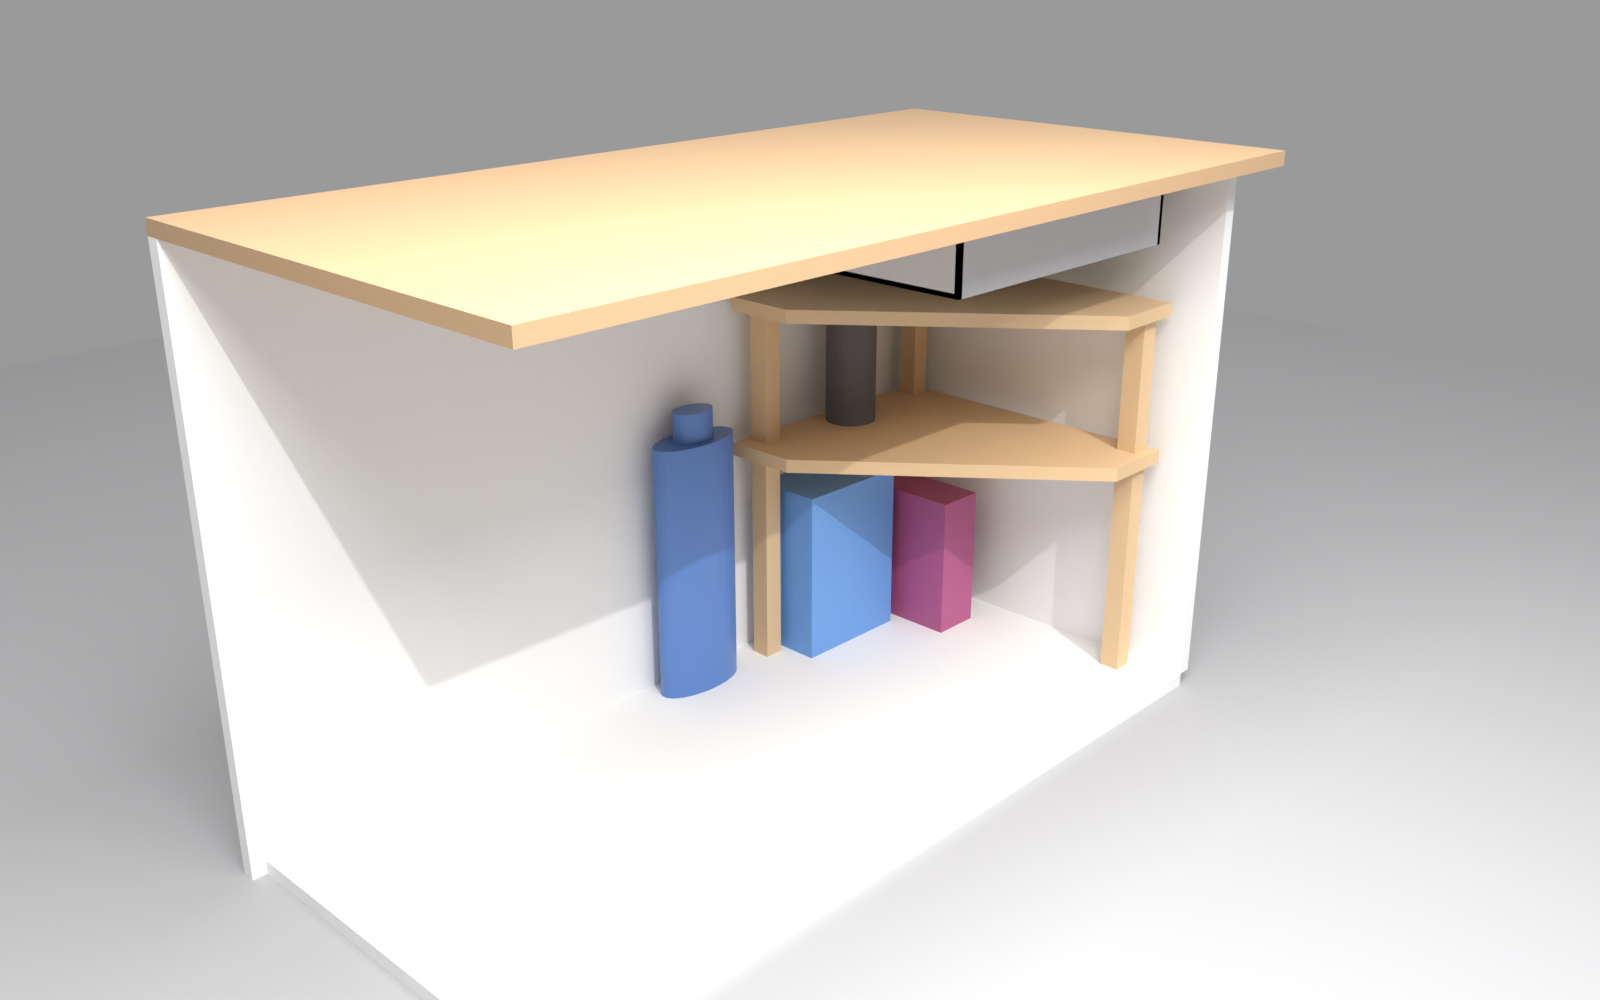
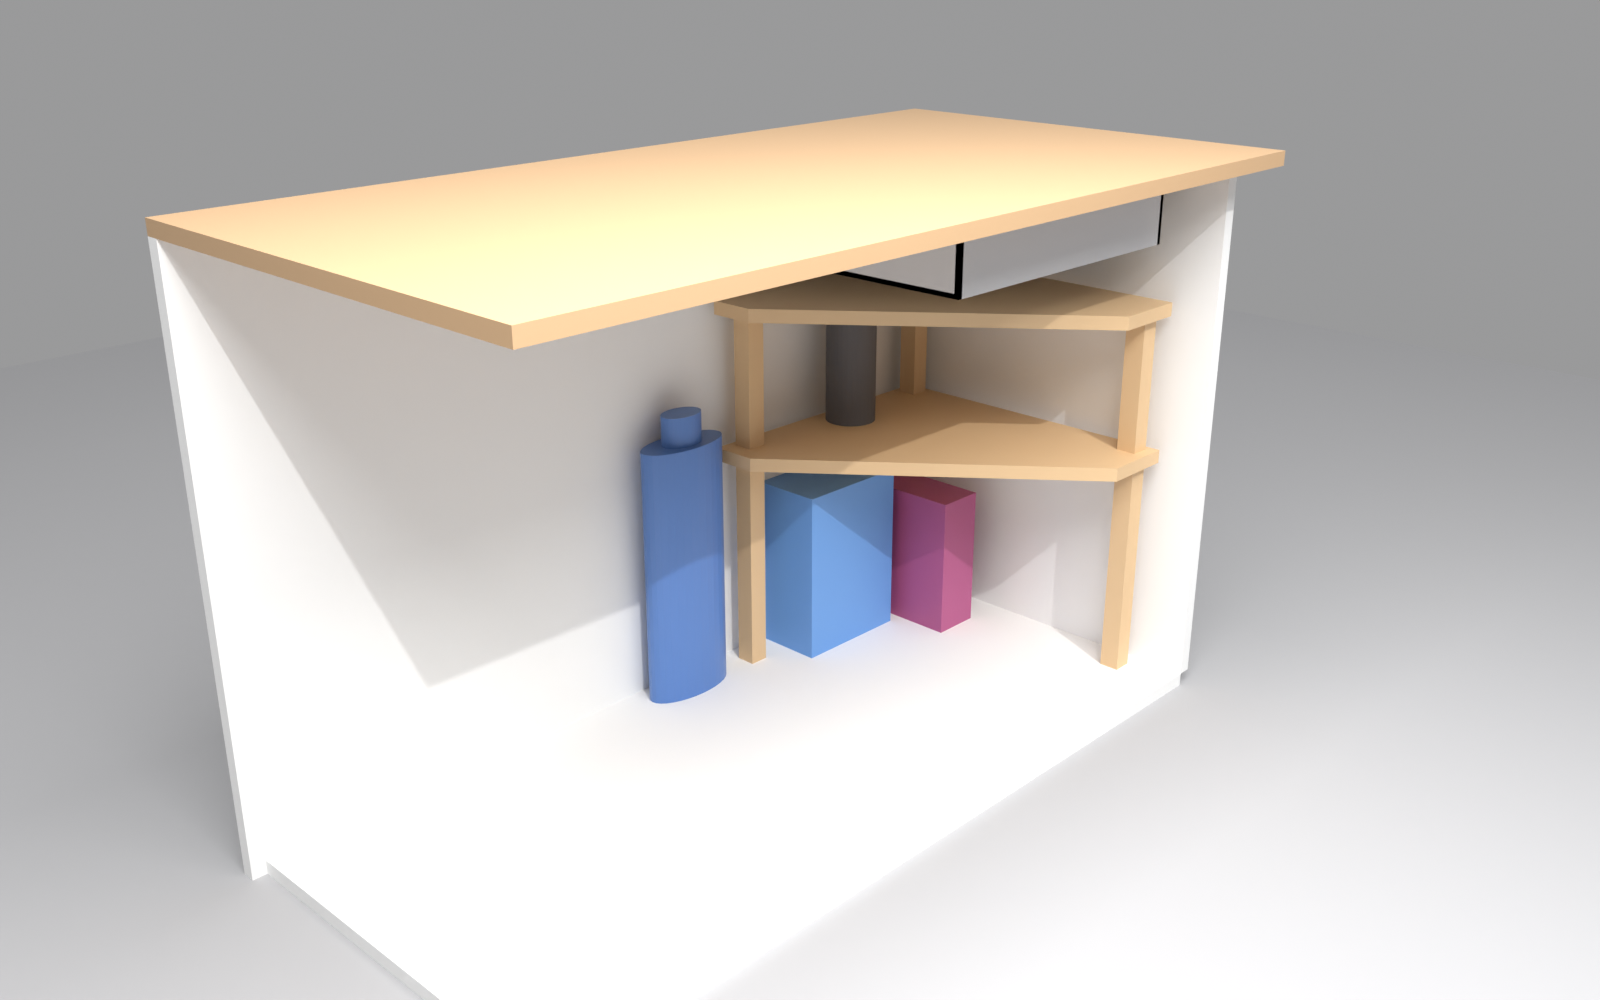
Shelf v11: full 400 mm board width, single shared diagonal in the nested cut

Changed region(s): [[0.375, 0.279, 0.5, 0.713]]

diff --git a/under_sink_shelf/index.html b/under_sink_shelf/index.html
@@ -84,7 +84,7 @@
     <table>
       <tr><th>Item</th><th>v2</th><th>v5 (current)</th><th>Why</th></tr>
       <tr><td>Shape</td><td>Right isosceles triangle, 380 mm legs</td>
-        <td>Five sides: 370 mm back edge, 430 deep, 100 mm front edge. The left edge runs straight for 100 mm at the back, then one diagonal (about 39° off straight) runs all the way to the front edge. Area 1146 cm², up from 722 cm².</td>
+        <td>Five sides, the full 400 mm width of the board (v11): 400 mm back edge, 430 deep, 100 mm front edge. The left edge runs straight for 63 mm at the back, then one diagonal (about 39° off straight) runs all the way to the front edge. Area 1170 cm² (v10: 1146 cm²). The back-left corner reaches 15 mm past the door opening into the open space beside it. The assembled shelf is 400 mm wide, as wide as the door opening, so it goes in turned: its narrowest width, square to the diagonal, is 350 mm.</td>
         <td>The back keeps its full width for longer, and only 10 cm of the 40 cm width is left at the front, so it is easy to reach past the front of the shelf into the extra space on the left.</td></tr>
       <tr><td>Middle shelf height</td><td>120 mm underside</td>
         <td><strong>300 mm underside</strong>, 300 mm clear space below</td>
@@ -106,15 +106,15 @@
   <div class="card">
     <table>
       <tr><th>Part</th><th>Qty</th><th>Size (mm)</th><th>Notes</th></tr>
-      <tr><td>Pine board</td><td>1</td><td>40 × 200 × 1.8 cm</td><td>Castorama PPA18400. Cut the two shelves nested (below): together they take 621 mm of the board, leaving room for the closet riser top (750 mm) and the jar riser top (600 mm).</td></tr>
-      <tr><td>Middle shelf</td><td>1</td><td>370 back, 430 deep, 100 front × 18</td><td>Cut from a 370 × 430 mm rectangle. Mark 100 mm in from the back along the left edge, and the point 100 mm from the right side along the front edge, and join the two with one straight saw cut. Keep the other corners square.</td></tr>
+      <tr><td>Pine board</td><td>1</td><td>40 × 200 × 1.8 cm</td><td>Castorama PPA18400. Cut the two shelves nested (below): together they take 618 mm of the board, leaving room for the closet riser top (750 mm) and the jar riser top (600 mm).</td></tr>
+      <tr><td>Middle shelf</td><td>1</td><td>400 back, 430 deep, 100 front × 18</td><td>The board's full width, so both long sides are factory edges. Cut out together with the top shelf: see the nested cut below.</td></tr>
       <tr><td>Top shelf</td><td>1</td><td>Same outline as the middle shelf</td><td>Turned 180° on the board so its diagonal runs beside the middle shelf's (see the cut plan).</td></tr>
       <tr><td>Base posts</td><td>3</td><td>27 × 27 × 300</td><td>Under the middle shelf.</td></tr>
       <tr><td>Middle posts</td><td>3</td><td>27 × 27 × 182</td><td>Between the shelves.</td></tr>
       <tr><td>Corner brackets</td><td>9</td><td>40 × 40 mm</td><td>One per joint, as in v2.</td></tr>
     </table>
     <p class="note">Batten total: 1446 mm plus about 12 mm of kerf. One 2.4 m batten is enough, with room for the four closet riser legs.</p>
-    <p><strong>Nested cut:</strong> lay the middle shelf at one end of the board, its 370 mm back edge across the board against one long edge, and its 100 mm front edge 430 mm along. Turn the top shelf 180° and put it against the other long edge, with its narrow front edge 191 mm from the end of the board, so the two diagonals run side by side about 4 mm apart. Both shelves end 621 mm from the end of the board. Saw the two diagonals as two separate cuts, one on each line.</p>
+    <p><strong>Nested cut (four saw cuts for both shelves, v10 needed seven):</strong> square one end of the board, measure 618 mm along and cut straight across. On that 618 × 400 piece, call the long edges A and B. Mark edge A at 63 mm from the squared end and edge B at 555 mm, draw the line between them and saw it: that is the diagonal of both shelves. Then cut each front edge square across, 100 mm long, from the long edge to the diagonal: on the first piece at 430 mm along edge B, on the second at 188 mm along edge A (measured from the same squared end). Each shelf then has a 400 mm back edge (a board end), a 430 mm long side, a 63 mm short side, the diagonal and a 100 mm front edge. Lay one on the other to check they match.</p>
     <img src="renders/closet_cut_plan.png" alt="Cut plan: the two kitchen shelves nested at one end of the board, then the 750 × 400 closet riser top and the 600 × 400 jar riser top; the batten holds the six kitchen posts and four closet riser legs." style="max-width:100%;height:auto">
     <p class="note">The closet riser (750 × 400 top, four 182 mm batten legs) and the jar riser (600 × 400 top, four 162 mm legs from 20 mm dowels, 18 cm tall) are on the Cost &amp; buy list tab. Generated by <code>closet_riser.py</code>.</p>
   </div>

diff --git a/under_sink_shelf/buy.html b/under_sink_shelf/buy.html
@@ -93,7 +93,7 @@
       <li>For the damp cabinet the glue should be water-resistant (D3). The Pattex Power pick is rated "water resistant", with no D-class on the listing. Sader Pro D3 (100 g, €9.89) is the one that states D3.</li>
       <li>A pilot drill bit (2.5 mm) and a countersink are not on the list. Add them if you do not have them.</li>
       <li>The saw is a fine-tooth crosscut saw rather than the coping saw on earlier versions of this list: the top-shelf notch it was for is gone, and every cut left is straight. The fine teeth leave a cleaner edge on the pine.</li>
-      <li><strong>Jar riser for the kitchen top closet:</strong> a 600 × 400 mm top on four 20 mm dowel legs, 162 mm long, 18 cm tall overall. The legs come from your two 1 m dowels, so it costs nothing extra. The top fits on the same board only if the two kitchen shelves are cut nested (turned 180° to each other, see the cut plan on the Design tab), which brings them from 860 mm of board down to 621 mm. Fix each leg with one 4 × 40 screw down through the top into a 2.5 mm pilot hole in the centre of the dowel end, plus glue. After all three pieces, about 175 mm of batten and the dowel offcuts are left.</li>
+      <li><strong>Jar riser for the kitchen top closet:</strong> a 600 × 400 mm top on four 20 mm dowel legs, 162 mm long, 18 cm tall overall. The legs come from your two 1 m dowels, so it costs nothing extra. The top fits on the same board only if the two kitchen shelves are cut nested (turned 180° to each other, see the cut plan on the Design tab), which brings them from 860 mm of board down to 618 mm. Fix each leg with one 4 × 40 screw down through the top into a 2.5 mm pilot hole in the centre of the dowel end, plus glue. After all three pieces, about 175 mm of batten and the dowel offcuts are left.</li>
       <li><strong>Closet riser:</strong> a 750 × 400 mm top (the closet is about 76 cm wide with obstacles) on four 27 × 27 mm legs, 182 mm long, 200 mm tall overall. Fix each leg with two 4 × 40 screws down through the top. Brackets and glue are optional on the riser: its legs are short and only carry weight straight down. The cut plan is in <code>closet_riser.py</code>.</li>
     </ul>
   </div>
@@ -104,7 +104,7 @@ const CA = "https://www.castorama.fr/search?term=";
 const AM = "https://www.amazon.fr/s?k=";
 // pick: "c" or "a". price = price of one pack/unit as listed; amz may be null when there is no like-for-like.
 const ITEMS = [
-  { id:"board", name:"Pine board 40 × 200 cm, 18 mm", need:"1 board: both kitchen shelves nested (621 mm), the closet riser top (750 mm) and the jar riser top (600 mm)",
+  { id:"board", name:"Pine board 40 × 200 cm, 18 mm", need:"1 board: both kitchen shelves nested (618 mm), the closet riser top (750 mm) and the jar riser top (600 mm)",
     c:{ t:"Tablette en pin massif PPA18400", p:16.90, u:"https://www.castorama.fr/tablette-en-pin-massif-40-x-200-cm-ep-18-mm-ppa18400/3760002269221_CAFR.prd", s:"4.7★ (11)" },
     a:null, pick:"c" },
   { id:"batten", name:"Pine batten 27 × 27 × 2400 mm", need:"1: kitchen posts (1446 mm) + 4 riser legs of 182 mm",

diff --git a/under_sink_shelf/build_model.py b/under_sink_shelf/build_model.py
@@ -52,14 +52,16 @@ Z_UP = 500           # underside of top shelf: 50 cm off the floor
 TOP = Z_UP + T       # 518
 
 # Flat back, steeper front-left slope toward the extra space (plan view, x, y in mm).
-# Lower shelf (v10): 370 back edge, 100 front edge, 430 deep. The left edge keeps a 100 mm straight
-# run at the back (y 15..115), then one diagonal runs all the way to the 100 mm front edge.
-OUTLINE_LOW = [(15, 15), (385, 15), (385, 115), (115, 445), (15, 445)]
+# Lower shelf (v11): the full 400 mm board width, so the back edge and the short left edge are the
+# board's factory edges (two fewer cuts). 400 back edge, 100 front edge, 430 deep. The v10 diagonal
+# is extended to the new left edge: 63 mm straight at the back (y 15..78), then the diagonal to the
+# 100 mm front edge. The back-left corner reaches 15 mm past the door opening, into the open extra space.
+OUTLINE_LOW = [(15, 15), (415, 15), (415, 78), (115, 445), (15, 445)]
 # Upper shelf: same outline (the standpipe and its notch were removed in v4).
 OUTLINE_UP = OUTLINE_LOW
 
 # Post lower-left corners (x, y); each post is LEG x LEG.
-POSTS = {"R": (25, 25), "F": (25, 403), "B": (333, 25)}
+POSTS = {"R": (25, 25), "F": (25, 403), "B": (363, 25)}
 
 # Things stored under the sink, measured by Dylan (mm). Placed where they fit:
 # the detergents stand upright on the floor under the middle shelf, the bags stand
@@ -67,7 +69,7 @@ POSTS = {"R": (25, 25), "F": (25, 403), "B": (333, 25)}
 # 50 cm of open floor left of the cabinet opening (it uses about 6 cm of it).
 # Box = (x0, x1, y0, y1, z0, z1) bounding box, used for the clearance checks.
 ITEM_BOX = {
-    "bottle": (410, 540, 5, 65, 0, 390),     # 39 x 13 x 6 cm, at the back, just left of the door opening (out of view)
+    "bottle": (430, 560, 5, 65, 0, 390),     # 39 x 13 x 6 cm, at the back, 3 cm left of the door opening (out of view)
     "salt":   (150, 320, 0, 100, 0, 240),     # big blue detergent box 24 x 17 x 10 cm, upright, pushed back
     "tabs":   (60, 130, 0, 180, 0, 200),      # red detergent box 18 x 20 x 7 cm, upright, pushed back
     "roll":   (165, 235, 25, 95, 318, 468),   # bin bags 15 cm long x 7 cm diameter, upright, middle shelf
@@ -204,7 +206,9 @@ def check():
 
     for label, poly in (("lower", OUTLINE_LOW), ("upper", OUTLINE_UP)):
         for x, y in poly:
-            need(CAB["x0"] + WALL_M <= x <= CAB["x1"] - WALL_M, f"{label} shelf x={x} too close to side wall")
+            need(CAB["x0"] + WALL_M <= x <= CAB["x1"] + WALL_M, f"{label} shelf x={x} too close to side wall")
+            # past the door opening only at the back, where the cabinet is open to the extra space
+            need(x <= CAB["x1"] - WALL_M or y <= 100, f"{label} shelf x={x}, y={y} hits the door frame")
             need(CAB["y0"] + WALL_M <= y <= CAB["y1"] - FRONT_M, f"{label} shelf y={y} margin to back/front")
 
     for name in POSTS:
@@ -299,7 +303,7 @@ def build():
     items = [
         # rinse bottle: 39 cm bottom to cap, 13 wide, 6 deep; cap/neck on top; back-left
         ("bottle", "Rinse bottle (39 x 13 x 6 cm)", "bottle",
-         merge(ellipse(475, 35, 65, 30, 0, 350), ellipse(475, 35, 30, 20, 350, 390))),
+         merge(ellipse(495, 35, 65, 30, 0, 350), ellipse(495, 35, 30, 20, 350, 390))),
         ("salt", "Big blue detergent box (24 x 17 x 10 cm, upright)", "salt", box(*ITEM_BOX["salt"])),
         ("roll", "Trash bags (15 cm long, 7 cm diameter, upright)", "roll", cylinder(200, 60, 35, 318, 468)),
         ("tabs", "Smaller red detergent box (18 x 20 x 7 cm, upright)", "tabs", box(*ITEM_BOX["tabs"])),

diff --git a/under_sink_shelf/closet_riser.py b/under_sink_shelf/closet_riser.py
@@ -44,9 +44,10 @@ JAR_LEG_L = JAR_HEIGHT - bm.T    # 162, four of them from the 2 m of dowel
 
 # The two kitchen shelves are cut nested: the second one is turned 180 degrees so the two diagonal
 # edges run side by side, one saw cut apart. Board frame: u along the board, v across it (0..400).
-SHELF_UV = [(y - 15, x - 15) for x, y in bm.OUTLINE_LOW]   # 430 long, 370 across
-NEST_D = 191                     # u of the second shelf's narrow end; >= 3 mm between the diagonals
-NEST_L = NEST_D + 430            # 621 mm of board for both shelves (860 if cut straight)
+SHELF_UV = [(y - 15, x - 15) for x, y in bm.OUTLINE_LOW]   # 430 long, the full 400 across (v11)
+NEST_D = 188                     # u of the second shelf's narrow end: the diagonals are ~1.7 mm apart,
+                                 # one saw kerf, so a single diagonal cut separates the two shelves
+NEST_L = NEST_D + 430            # 618 mm of board for both shelves (860 if cut straight)
 KITCHEN_BOARD = [("kitchen shelves", NEST_L)]
 KITCHEN_POSTS = [("kitchen post", bm.Z_LOW)] * 3 + [("kitchen post", bm.Z_UP - bm.Z_LOW - bm.T)] * 3
 

diff --git a/under_sink_shelf/plan_view.py b/under_sink_shelf/plan_view.py
@@ -39,7 +39,7 @@ for n in bm.POSTS:
 for name, (x0, x1, y0, y1, z0, z1) in bm.ITEM_BOX.items():
     col = {"bottle": "#1a38a0", "salt": "#2659c0", "tabs": "#73193f", "roll": "#202224"}[name]
     rect(x0, x1, y0, y1, fc=col, ec="none", alpha=.9)
-ax.annotate("rinse bottle,\njust out of view\nfrom the door", xy=(475, 35), xytext=(700, 120), ha="center", fontsize=8, arrowprops=dict(arrowstyle="->", lw=.8))
+ax.annotate("rinse bottle,\njust out of view\nfrom the door", xy=(495, 35), xytext=(700, 120), ha="center", fontsize=8, arrowprops=dict(arrowstyle="->", lw=.8))
 ax.text(235, 55, "detergents", ha="center", fontsize=7, color="white")
 # walls
 w = dict(fc="#444", ec="none")

diff --git a/HANDOFF.md b/HANDOFF.md
@@ -43,8 +43,14 @@ The other Amazon links in buy.html are still search links, not products.
 Jar riser (kitchen top closet, empty jars): 600 x 400 top on four 162 mm legs cut from Dylan's
 two 1 m x 20 mm dowels, 18 cm tall, one 4x40 screw + glue per leg. It only fits on the board
 because the two kitchen shelves are now cut NESTED (second turned 180 deg, narrow end at 191 mm,
-621 mm total instead of 860); board is then used to within the 10 mm end trims. Design tab cut
+618 mm total in v11 instead of 860); board is then used to within the 10 mm end trims. Design tab cut
 list updated (also dropped the stale v4 notch row). Jar-closet shelf size not confirmed by Dylan.
+v11 (Dylan's idea, 2026-10-28): shelves use the full 400 mm board width (back edge 400, left straight
+63 mm, same diagonal extended, front 100, depth 430, area 1170 cm2). Back-left corner reaches 15 mm
+past the door opening into the open extra space (check() now allows that at y <= 100 only). Post B
+moved to x 363 (authoring), rinse bottle moved 20 mm left. The unit is 400 wide = door opening, so it
+goes in turned (narrowest width 350 mm). Nested cut is now 618 mm and 4 cuts: crosscut, one shared
+diagonal (edge A 63 mm -> edge B 555 mm), two 100 mm front cuts. Renders re-run in Blender.
 Published to the site on 2026-10-28.
 
 **Resume:** Shelf v10 and the Cost & buy list tab are live; wait for Dylan's feedback on the shape, then check Palaiseau stock.
